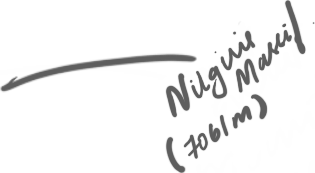
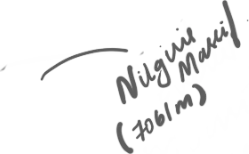
Update desktop hand marks to new reference: underlined RESUME + redrawn slanted nilgiris, repositioned to match

Changed region(s): [[0.0, 0.0, 0.9839, 1.0]]

diff --git a/assets/redo.css b/assets/redo.css
@@ -142,9 +142,9 @@ h1, h2, .dname { font-weight: 700; letter-spacing: -0.022em; }
 .hand__el { position: absolute; display: none; height: auto; }
 @media (min-width: 761px) {
   .hand__el { display: block; }
-  .hand__nilgiris { left: 43.53%; top: 8.52%; width: 16.64%; }
+  .hand__nilgiris { left: 46.17%; top: 10.10%; width: 13.15%; }
   .hand__apple    { left: 26.68%; top: 47.57%; width: 4.07%; }
-  .hand__resume   { left: 90.02%; top: 8.03%; width: 6.92%; }
+  .hand__resume   { left: 89.80%; top: 8.03%; width: 7.13%; }
 }
 /* Mobile: the banner stacks (cream copy 35svh on top, photo 65svh below) and
    .hand still spans the whole banner (inset:0), so these positions are a % of
